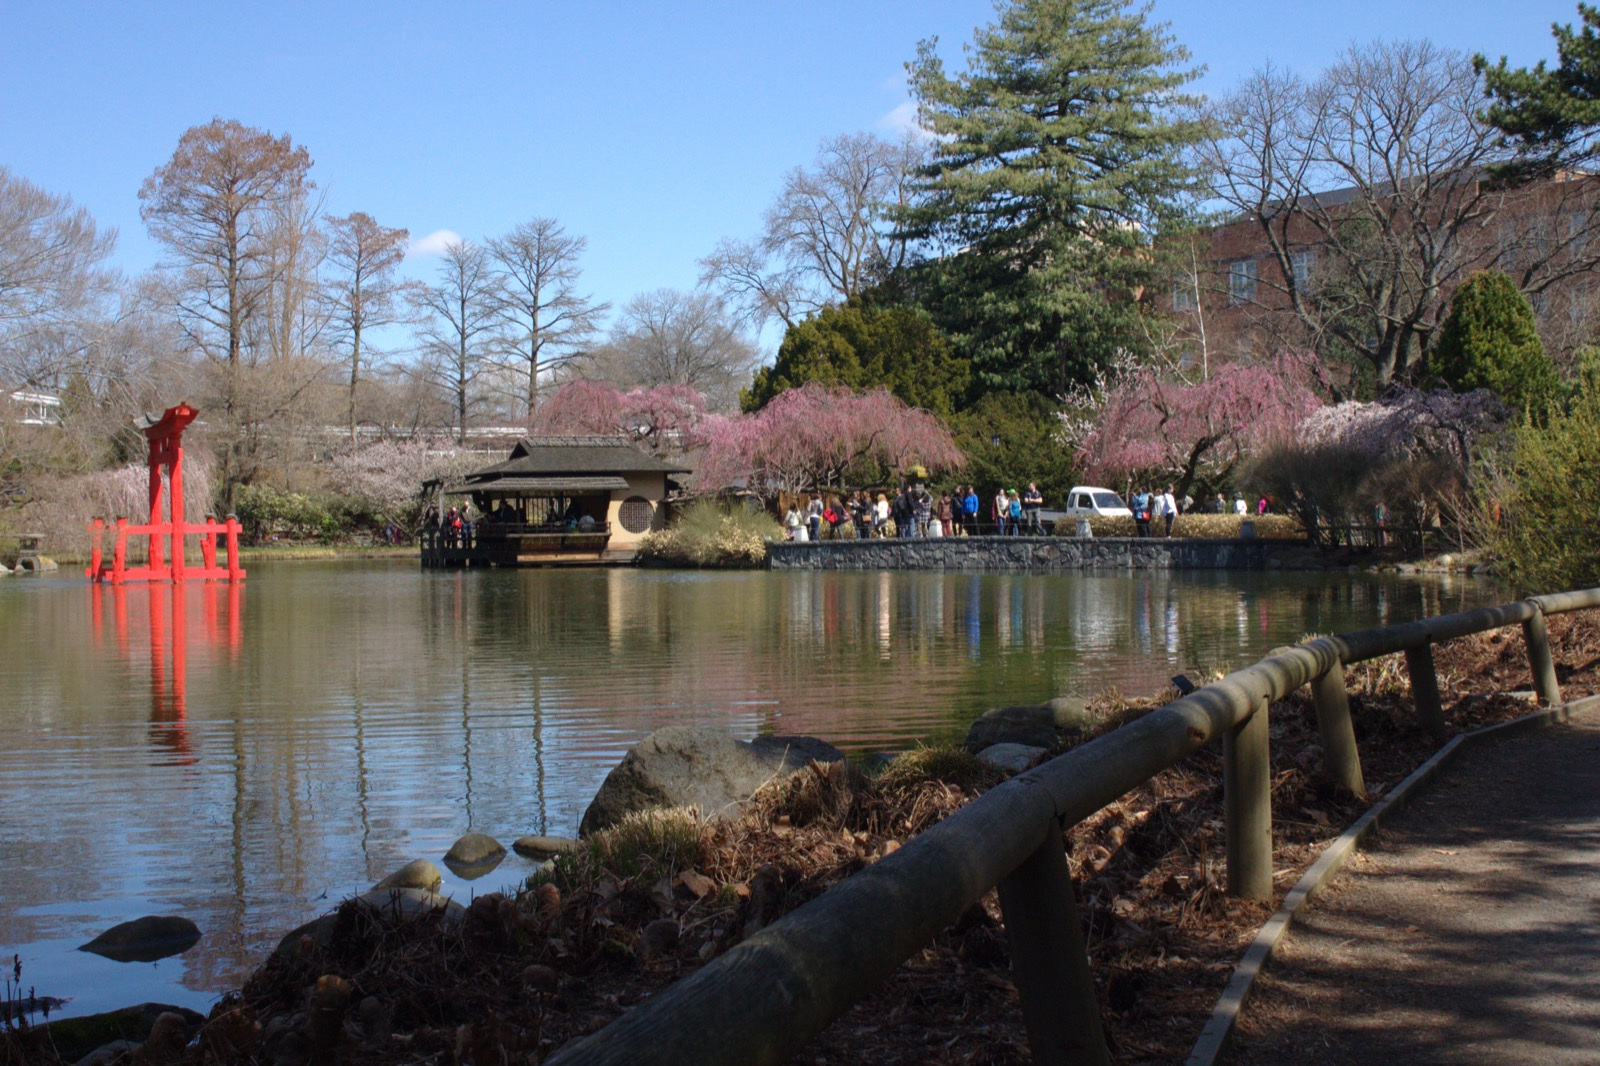
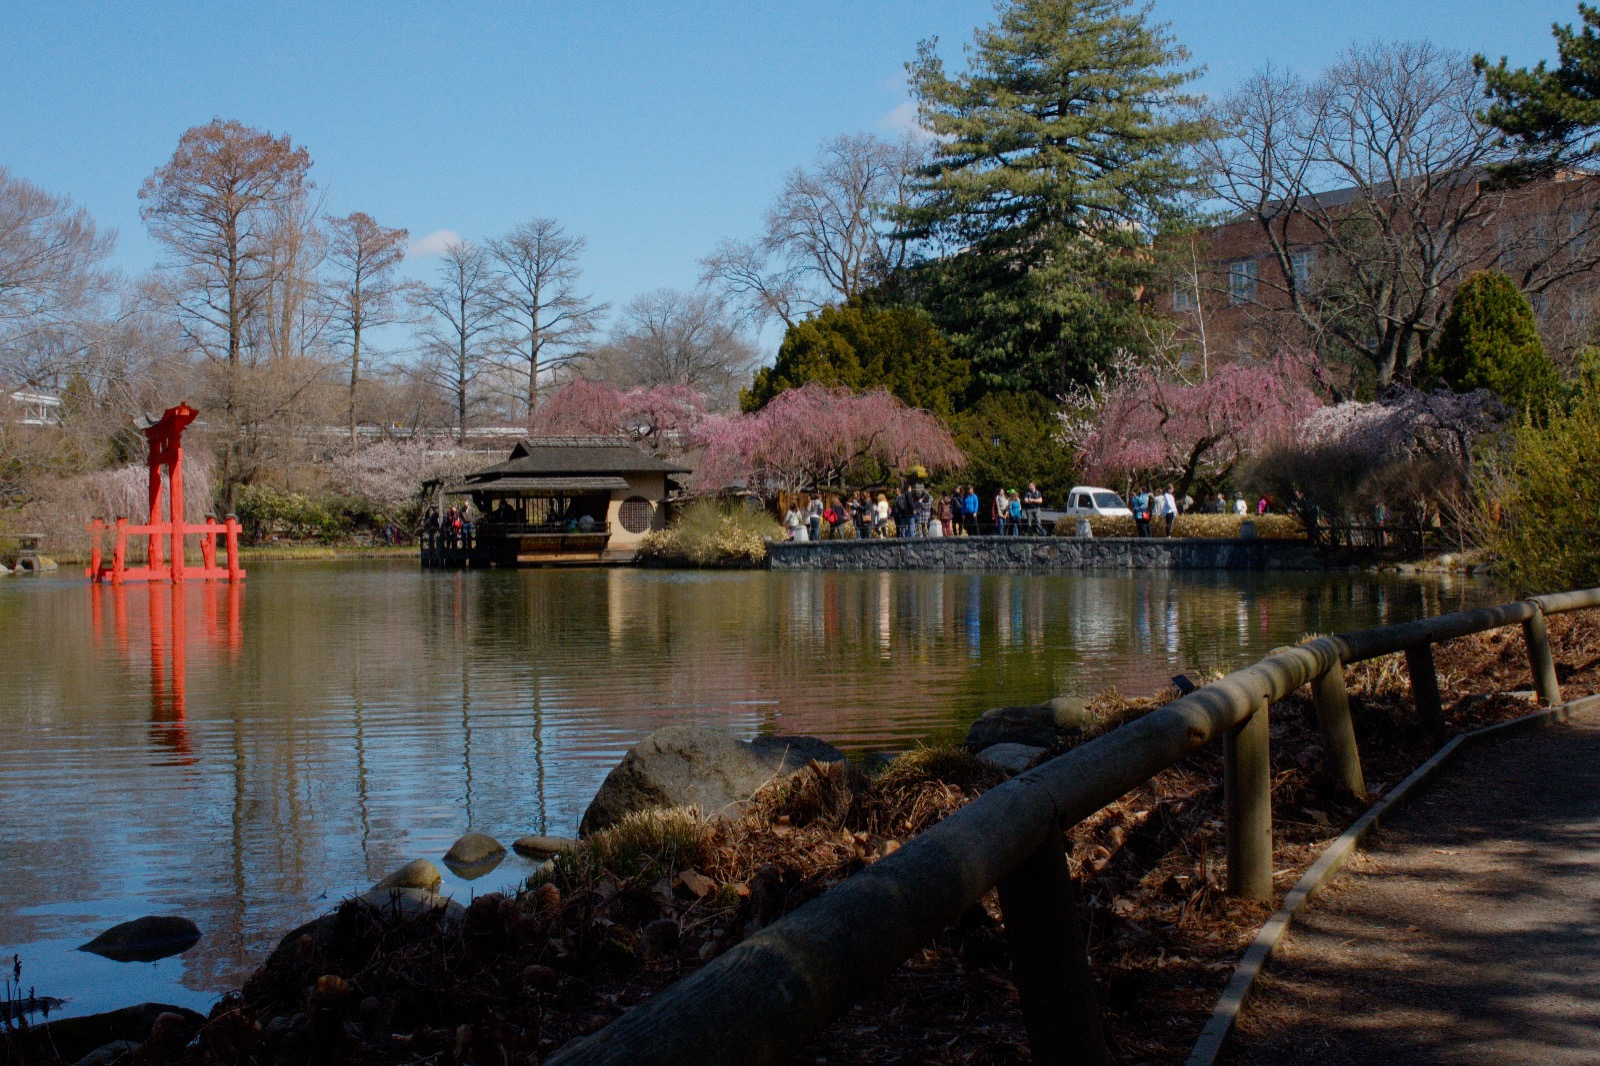
feat(web): update landing site comparison photo with calibrated AgX Vivid render
Re-render the landing site hero comparison photo using the canonical
AgX Vivid profile and calibrated Zone VII/VIII diffuse highlight anchor.
Preserves rich vermilion saturation in the Japanese garden torii gate
without digital gamut clipping, and fixes the test contrast baseline
in firstproof-engine.

diff --git a/firstproof-engine/src/color/agx.rs b/firstproof-engine/src/color/agx.rs
@@ -283,7 +283,7 @@ mod tests {
         for &gray in &[0.01, 0.05, 0.18, 0.5, 1.0, 4.0, 16.0] {
             let input = Color3::new(gray, gray, gray);
             let out_photo = agx_tone_map_photographic(input, 1.0);
-            let out_base = agx_tone_map(input, 1.0);
+            let out_base = agx_tone_map(input, 1.28);
 
             assert!(
                 (out_photo.r() - out_photo.g()).abs() < 1e-4,
